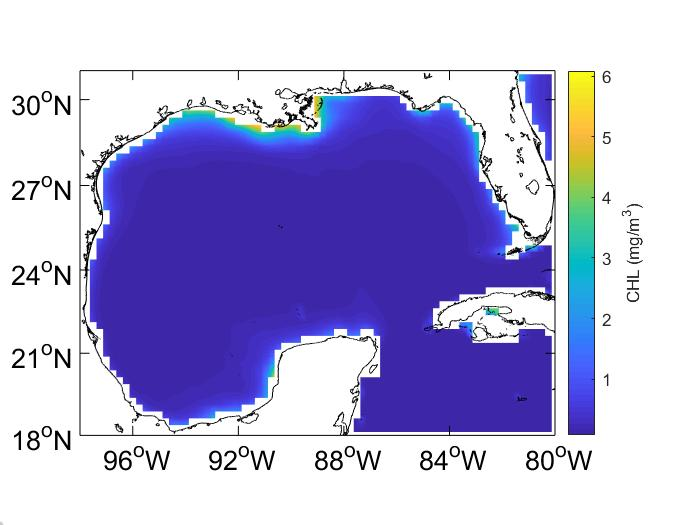
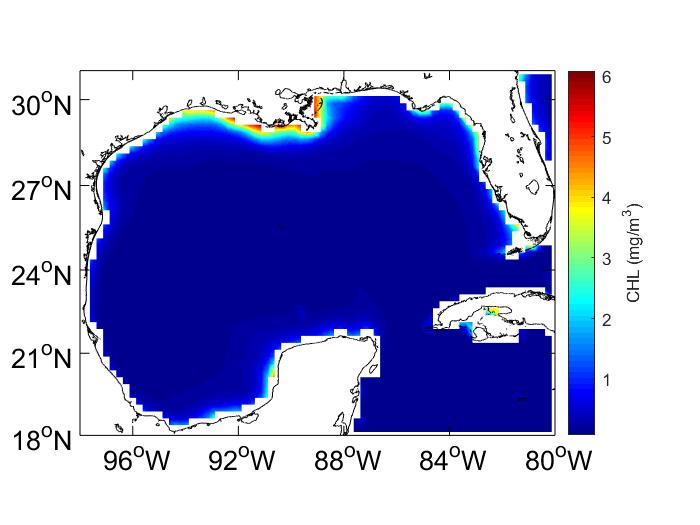
Made some edits to homework script related to color palette.

diff --git a/HW10/hwk10_script.m b/HW10/hwk10_script.m
@@ -34,7 +34,7 @@ m_gshhs_f ('color','k');
 shading interp
 set(h_surf,'edgecolor','none')
 set(gca,'fontsize',16,'fontweight','normal')
-%colormap('summer')
+colormap('jet')
 
 m_grid('ticklen',0.02,'linestyle','none');
 cbar=colorbar('Location','EastOutside','YAxisLocation','right','fontsize',10,'fontweight','normal');
@@ -56,7 +56,7 @@ m_gshhs_f ('color','k');
 shading interp
 set(h_surf,'edgecolor','none')
 set(gca,'fontsize',16,'fontweight','normal')
-%colormap('summer')
+colormap('jet')
 
 m_grid('ticklen',0.02,'linestyle','none');
 cbar=colorbar('Location','EastOutside','YAxisLocation','right','fontsize',10,'fontweight','normal');
